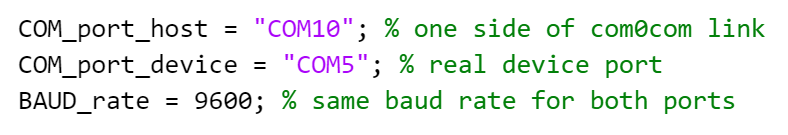
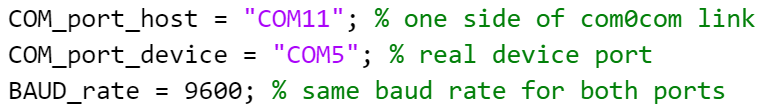
add new pic and update readme

diff --git a/main.m b/main.m
@@ -6,7 +6,7 @@
 % 2) Add print to console
 % 3) Do some tests
 
-COM_port_host = "COM10"; % one side of com0com link
+COM_port_host = "COM11"; % one side of com0com link
 COM_port_device = "COM5"; % real device port
 BAUD_rate = 9600; % same baud rate for both ports
 

diff --git a/README.md b/README.md
@@ -25,3 +25,8 @@ Matlab script for intercepting messages between host computer and any device via
 - set BAUD_rate to the value required for the device to operate properly.
 
 <img src="pic/matlab_settings.png" width="500" alt="matlab_settings.png" />
+
+
+- An example of the resulting communication diagram:
+
+<img src="link_diagram.png" width="400" alt="matlab_settings.png" />
